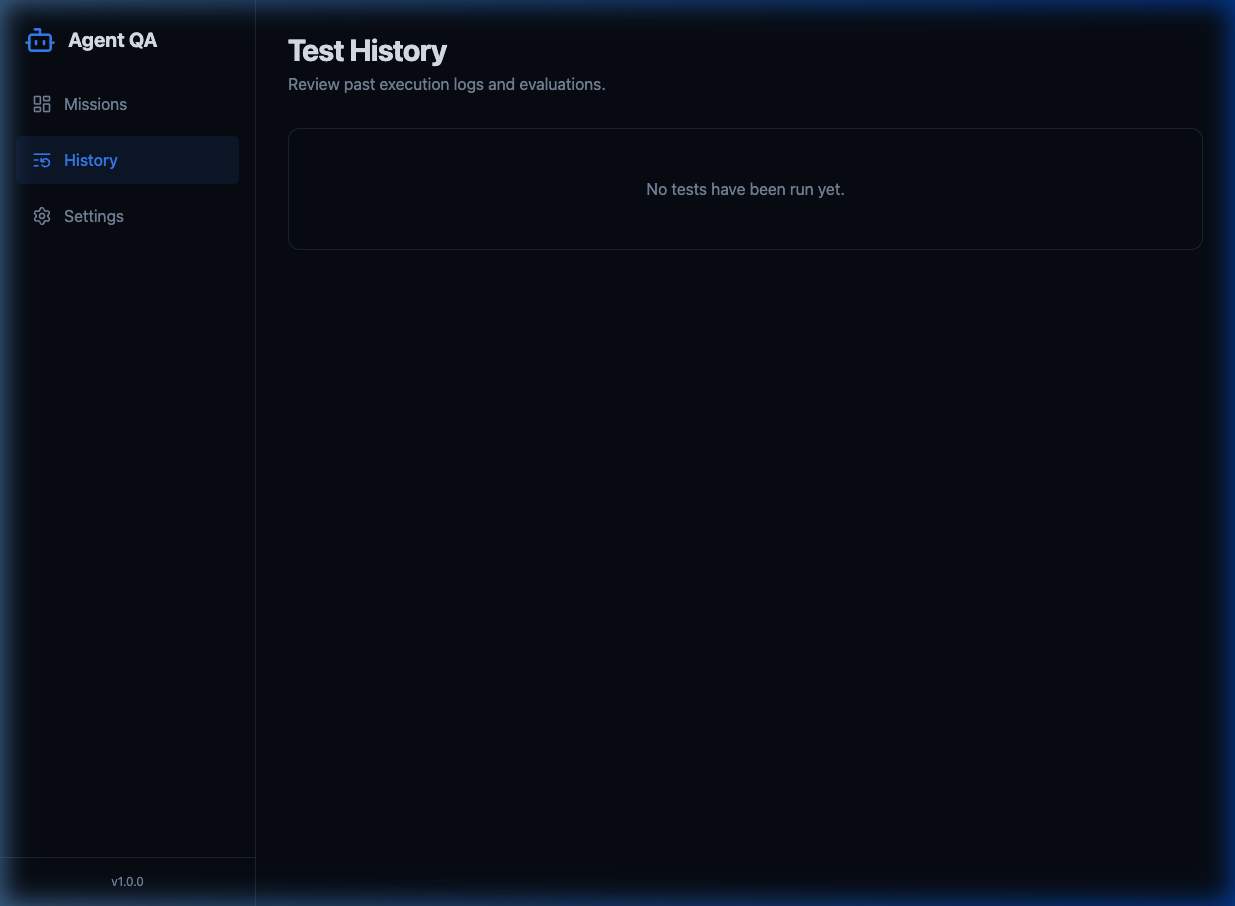
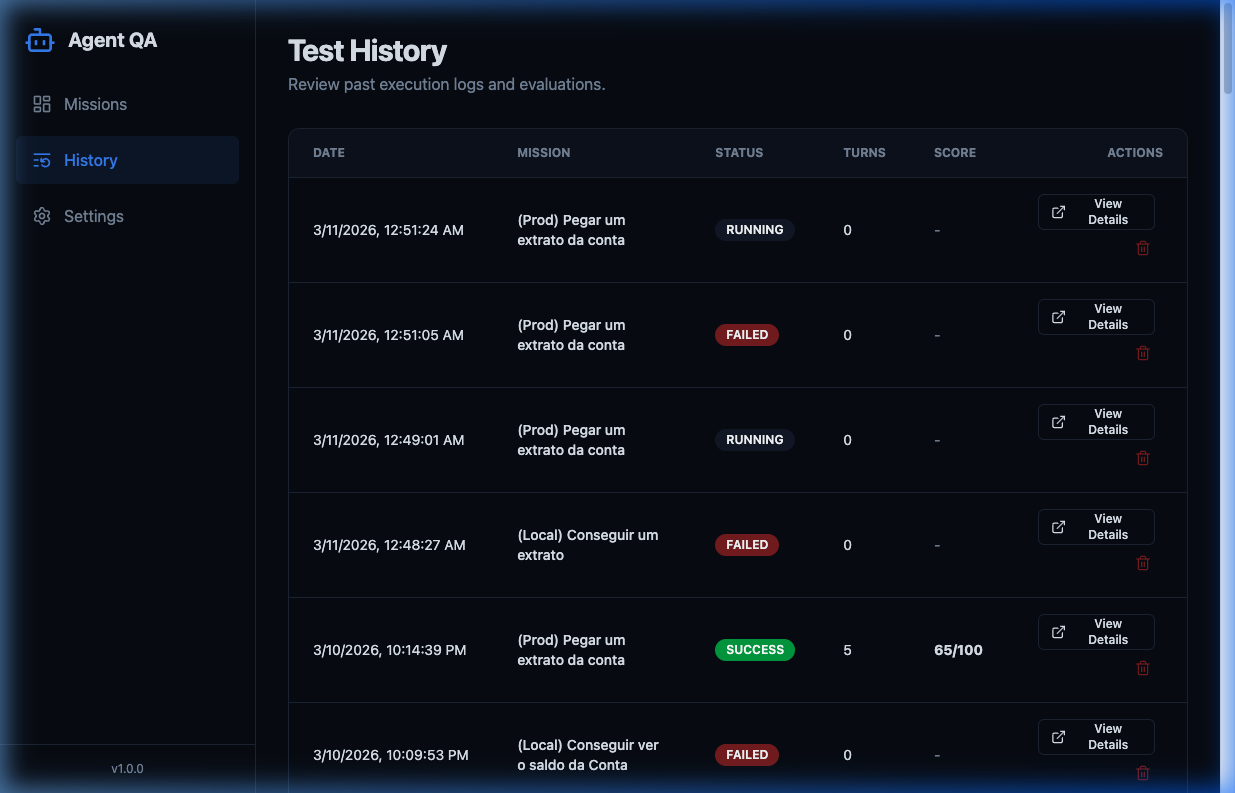
docs: add evaluation report, chat log, and prompt improvements screenshots

diff --git a/README.md b/README.md
@@ -6,13 +6,23 @@ An automated end-to-end testing and evaluation platform for **any system that ex
 
 ## 📸 Screenshots
 
-| Mission Board | Mission Editor |
-|---|---|
-| ![Mission Board](docs/screenshot_mission_board.png) | ![Mission Editor](docs/screenshot_mission_editor.png) |
+### Mission Board
+![Mission Board](docs/screenshot_mission_board.png)
 
-| Test History | Settings |
-|---|---|
-| ![Test History](docs/screenshot_test_history.png) | ![Settings](docs/screenshot_settings.png) |
+### Mission Editor
+![Mission Editor](docs/screenshot_mission_editor.png)
+
+### Test History
+![Test History](docs/screenshot_test_history.png)
+
+### Evaluation Report
+![Evaluation Report](docs/screenshot_evaluation_report.png)
+
+### Live Chat Log
+![Chat Log](docs/screenshot_chat_log.png)
+
+### Targeted Prompt Improvements
+![Prompt Improvements](docs/screenshot_prompt_improvements.png)
 
 ---
 
